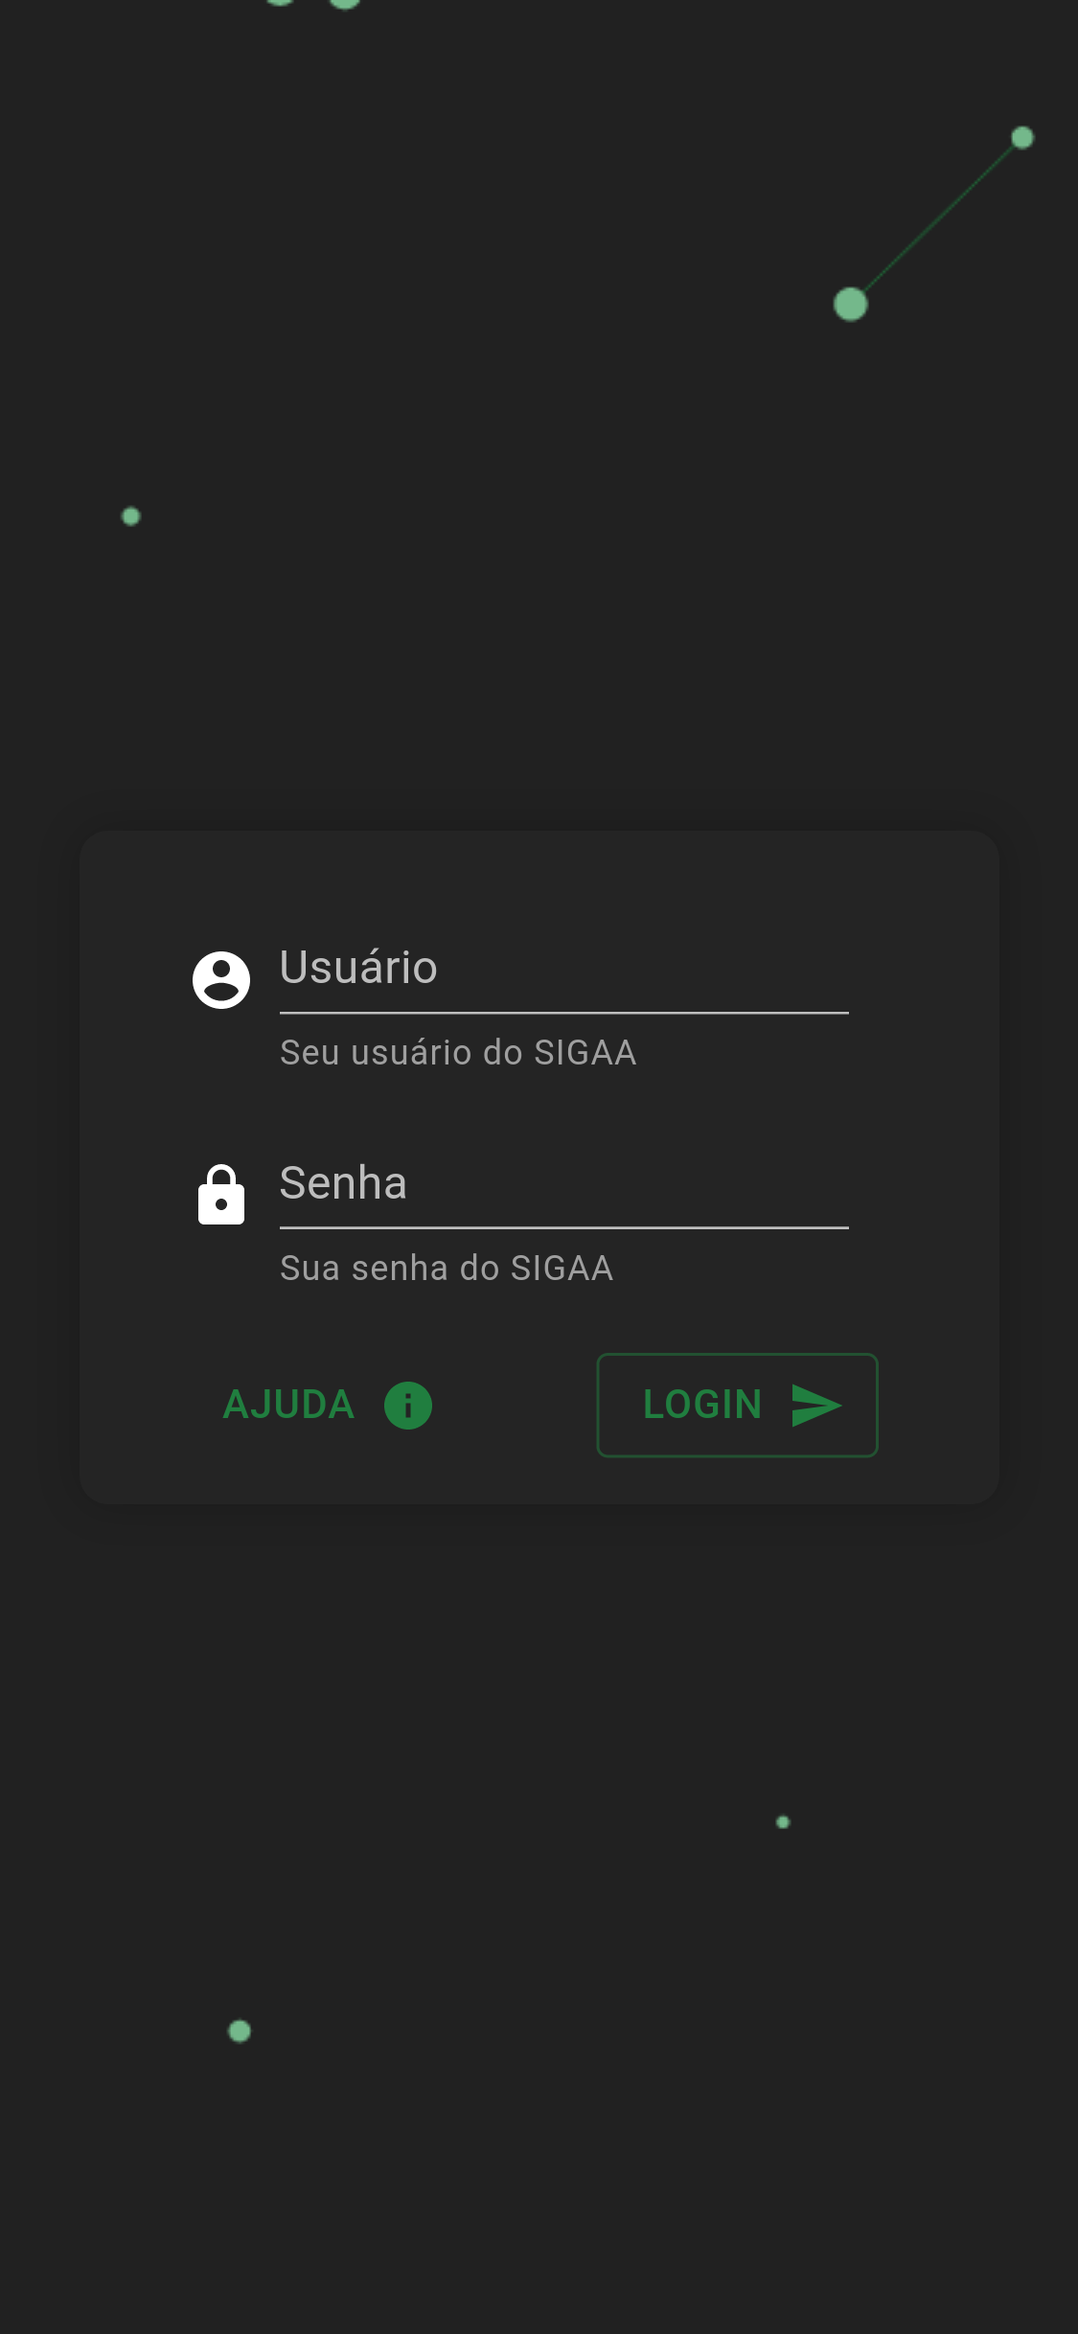
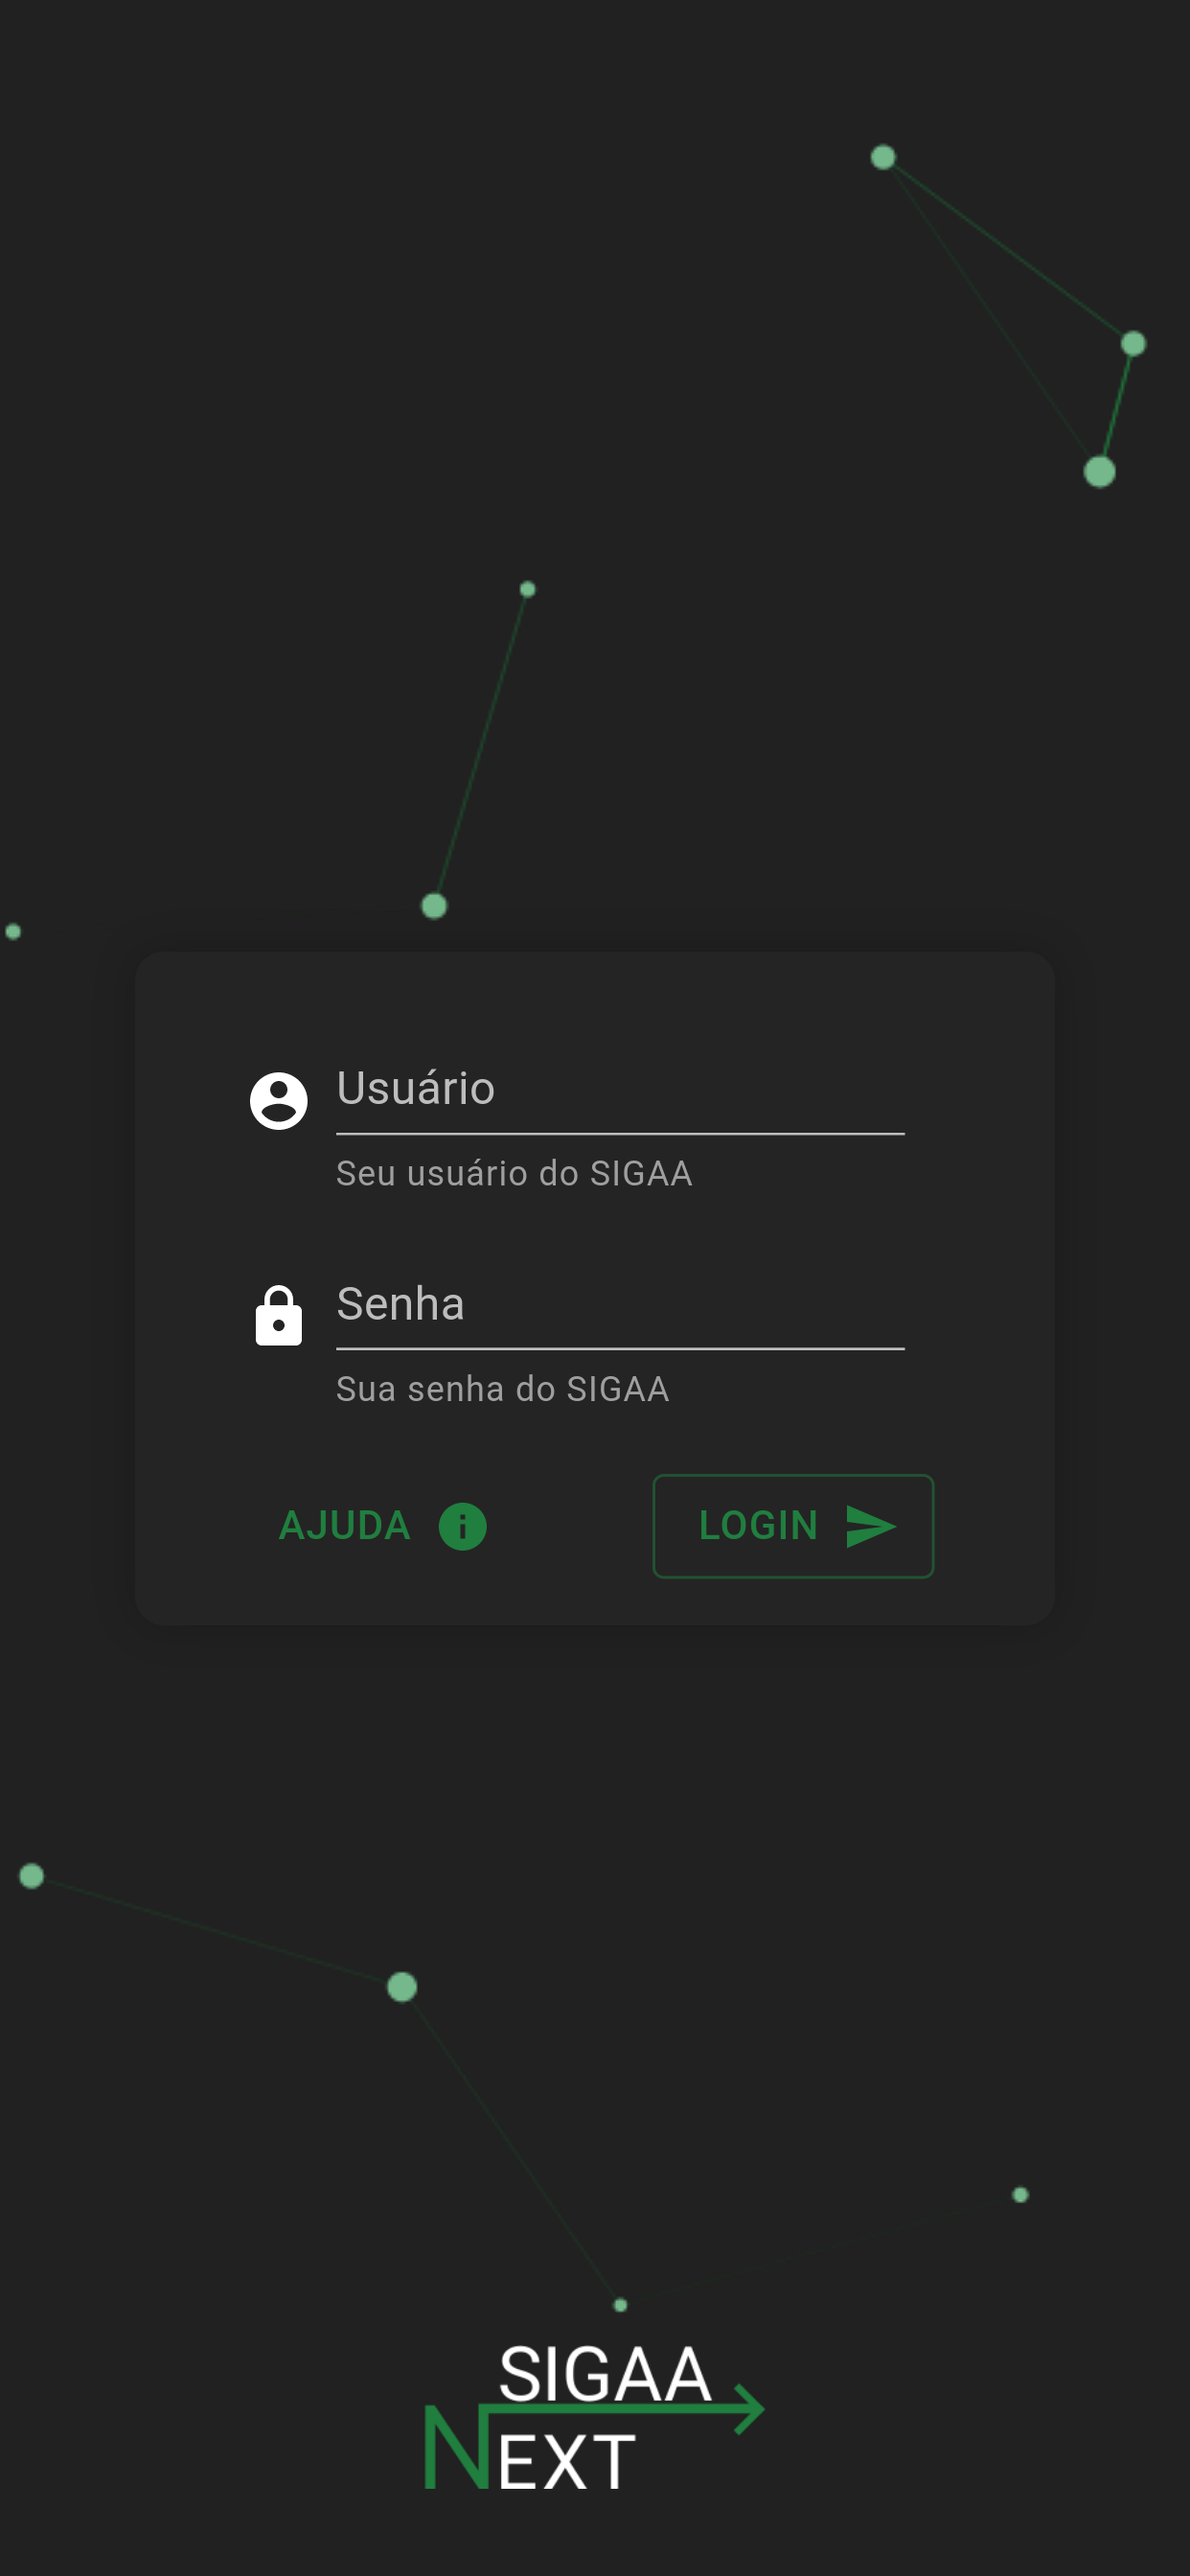
Imagens do README atualizadas (#36)
* Imagens do readme atualizadaas

* hr fix

* Páginas removido

diff --git a/README.md b/README.md
@@ -14,11 +14,37 @@ O principal objetivo do projeto é melhorar a usabilidade do estudante para visu
 ![PIX](https://user-images.githubusercontent.com/33992396/99478349-ff1b1280-2932-11eb-8776-1942bbe1a52a.png)
 
 Para manter o projeto funcionando 24h e atualizado, estamos aceitando doações! 
-<h2>email: sigaanext@gmail.com</h2>
+<p style="font-size: 24px">email: sigaanext@gmail.com</h2>
 <br>
 
 ## Problemas ou sugestões
 
 Caso encontre algum problema ou tenha alguma sugestão, por favor, abra uma issue [aqui](https://github.com/dduartee/sigaa-next-client/issues/new).
 
-![completo](docs/images/Completo.png)
+
+
+<br>
+<div align="center">
+
+<h2>Login, Ajuda e Vinculos</h2>
+<img src="docs/images/Login.png" width="300" />
+<img src="docs/images/Ajuda.png" width="300" />
+<img src="docs/images/Vinculos.png" width="300" />
+</div>
+<br>
+<div align="center">
+
+<h2>Página inicial e menu</h2>
+<img src="docs/images/Atividades.png" width="300" />
+<img src="docs/images/Matérias.png" width="300" />
+<img src="docs/images/Menu.png" width="300" />
+</div>
+
+<br>
+<div align="center">
+
+<h2>Horários e Notas</h2>
+<img src="docs/images/Horários.png" width="300" />
+<img src="docs/images/Notas.png" width="300" />
+<img src="docs/images/Notas2.png" width="300" />
+</div>
